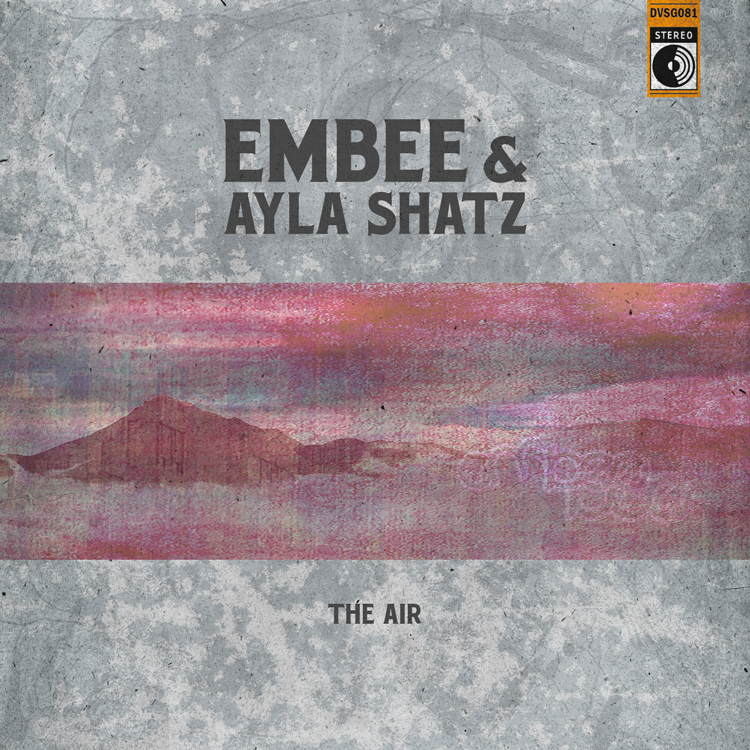
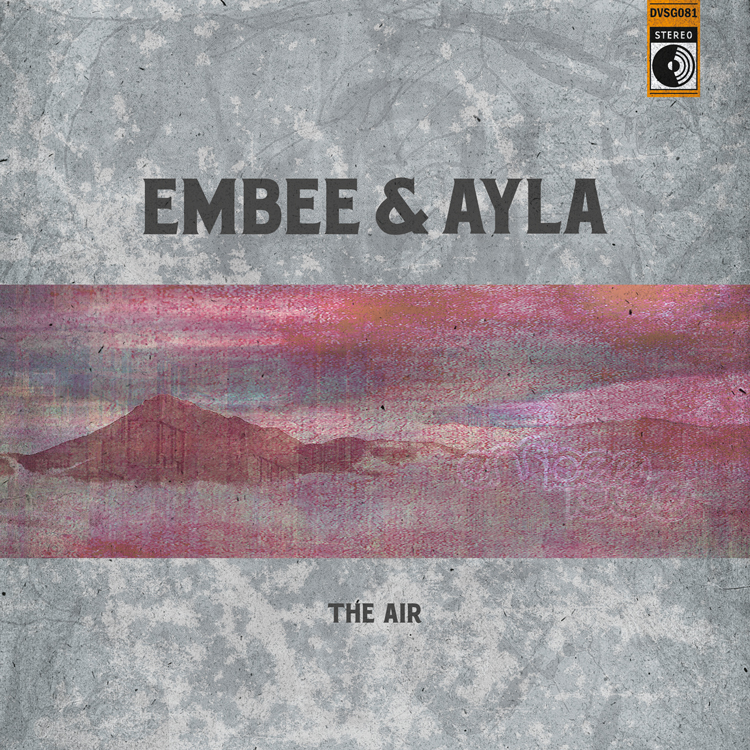
Ayla Shatz -> Ayla

diff --git a/page-ltr25.php b/page-ltr25.php
@@ -153,11 +153,11 @@
                         <div class="release">
                             <div class="release__img">
                                 <a href="https://ltr25.lnk.to/TheAir">
-                                    <img src="<?php echo get_stylesheet_directory_uri(); ?>/img/ltr25/_LTR25_TheAirDVSG081.jpg" alt="Embee &amp; Ayla Shatz - The Air">
+                                    <img src="<?php echo get_stylesheet_directory_uri(); ?>/img/ltr25/_LTR25_TheAirDVSG081.jpg" alt="Embee &amp; Ayla - The Air">
                                 </a>
                             </div>
                             <div class="release__col1">
-                                <div class="release__artist">Embee &amp; Ayla Shatz</div>
+                                <div class="release__artist">Embee &amp; Ayla</div>
                                 <div class="release__title">The Air</div>
                                 <a href="https://ltr25.lnk.to/TheAir" class="release__link">Listen to single</a>
                             </div>
